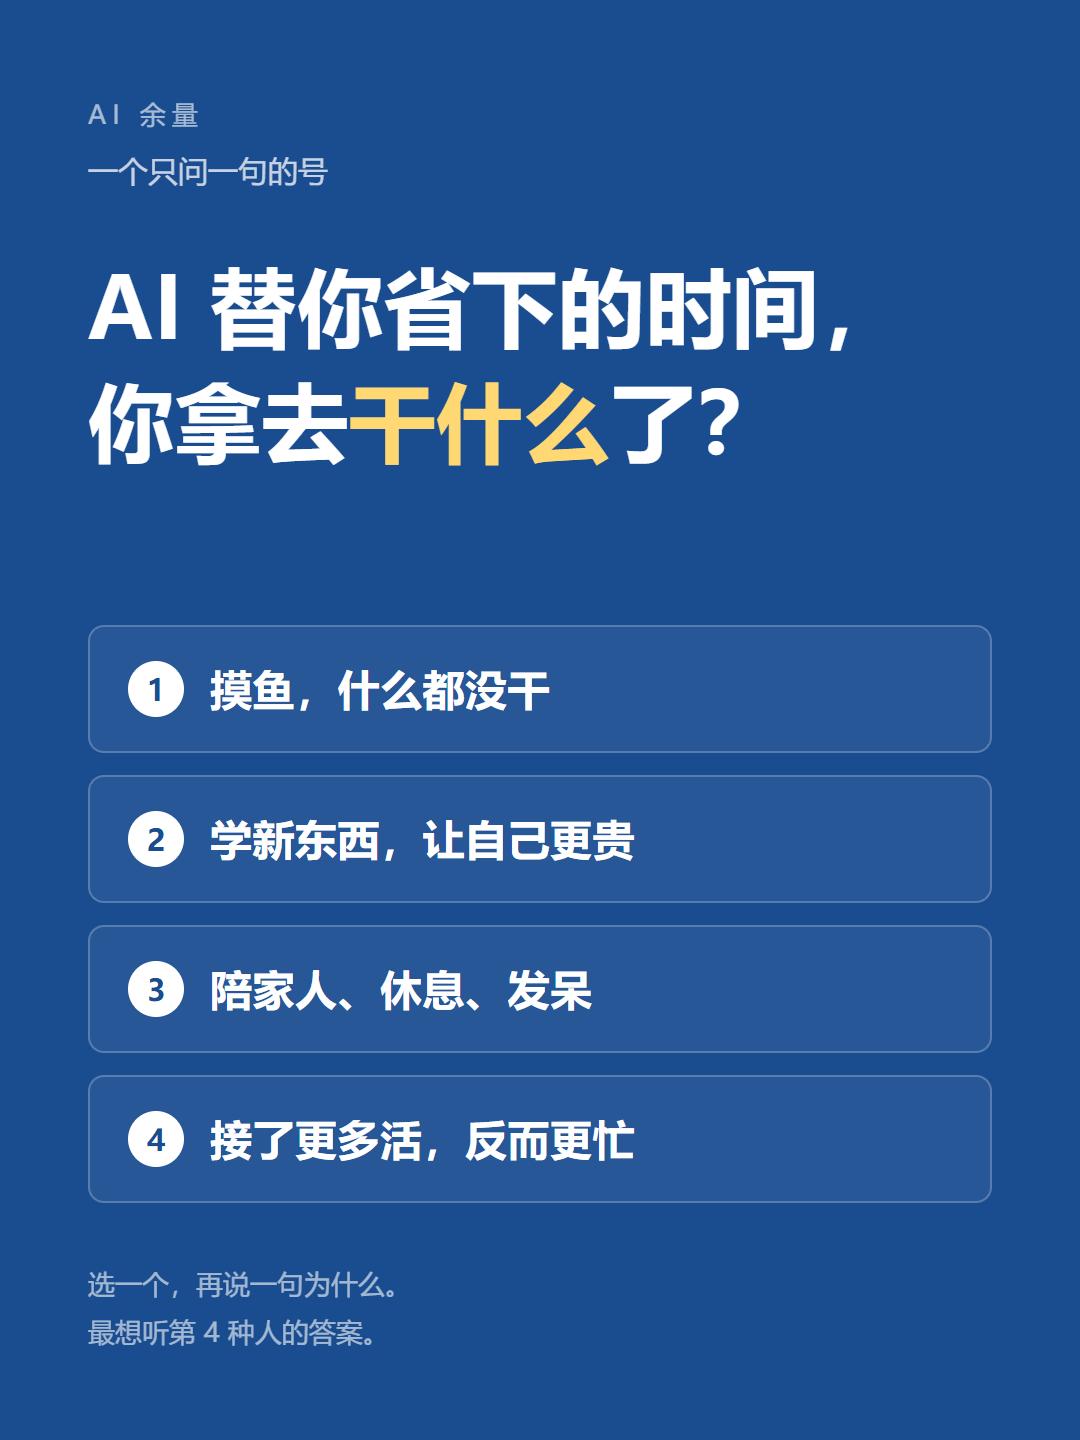
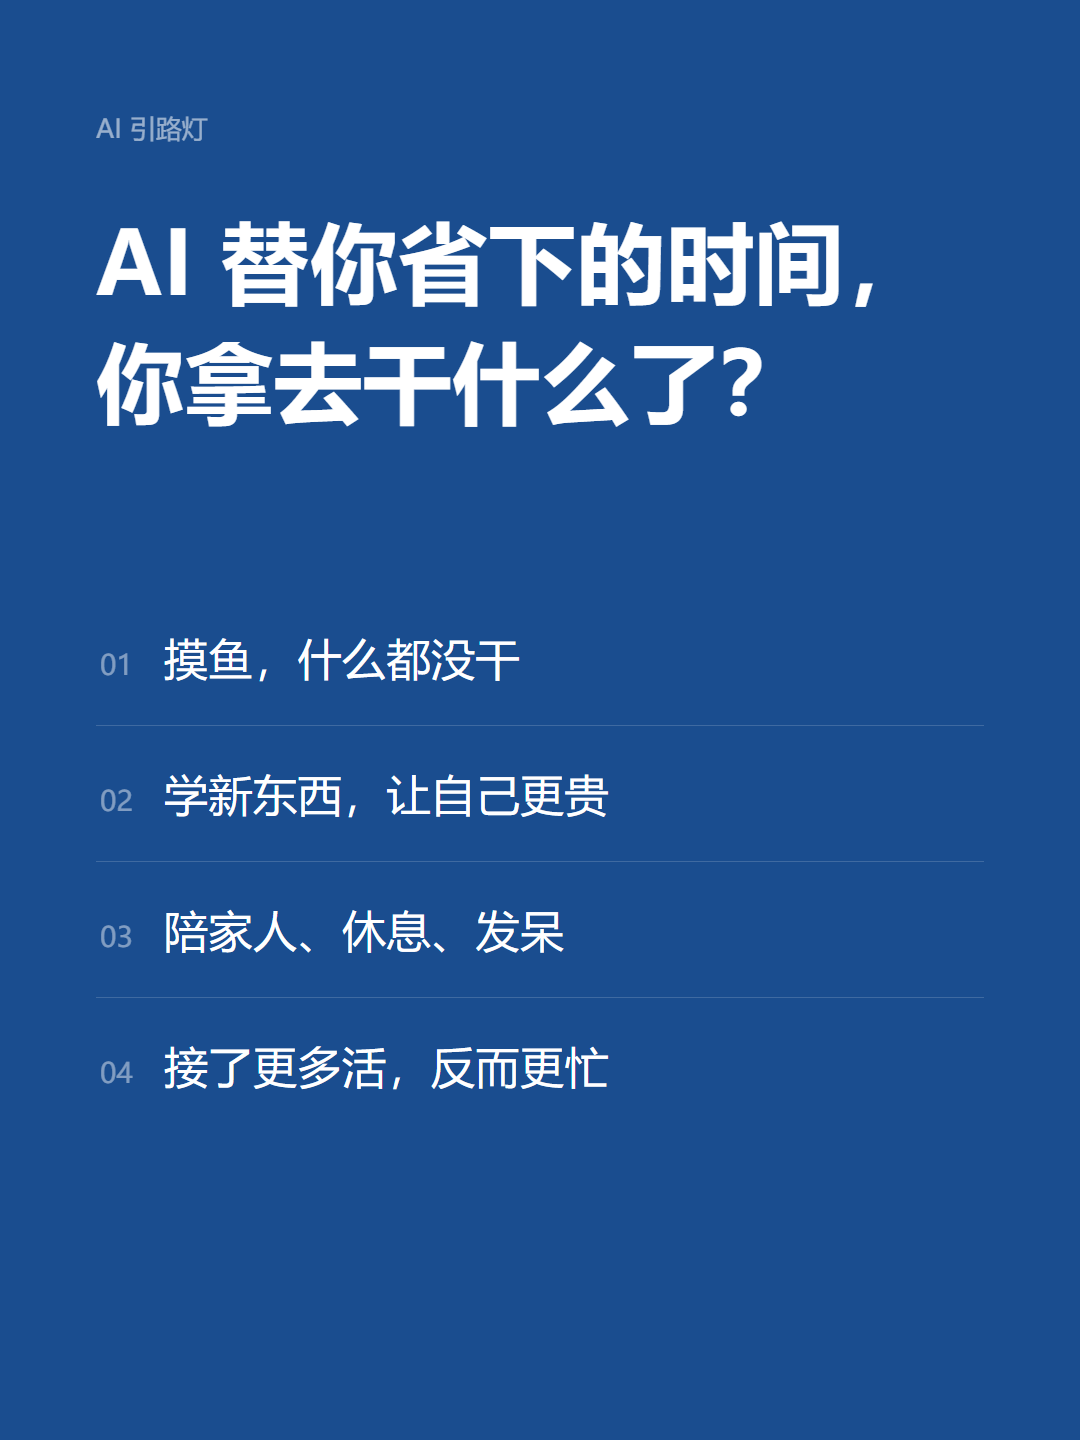
改名 AI 引路灯，卡片去掉装饰
名字：AI 余量 → **AI 引路灯**。一句话：灯不解释整条路，只照亮下一步。
介绍文案全部重写（原来那版整段围绕「余量」展开，名字换了就不成立）。

讨论卡去掉三样：品牌副标题「一个只问一句的号」、黄色高亮、带边框的选项胶囊。
改成：细线分隔 + 小号序号 + 纯文字，只有深蓝一个颜色。
顺手把版面从「选项吸底」改成「跟着问题走」，中间不留大洞。

另外修了文案里一处中英串词（ninety → 九十）。

diff --git a/分发/讨论卡-省下的时间.html b/分发/讨论卡-省下的时间.html
@@ -7,45 +7,33 @@
   body {
     width:1080px; height:1440px; background:#1a4d8f; color:#fff;
     font-family:"PingFang SC","Microsoft YaHei",system-ui,sans-serif;
-    display:flex; flex-direction:column; justify-content:space-between;
-    padding:96px 88px 84px;
+    padding:110px 96px 100px; display:flex; flex-direction:column;
   }
-  .brand { font-size:26px; letter-spacing:6px; opacity:.62; font-weight:400; }
-  .lead { font-size:30px; line-height:1.7; opacity:.75; margin-top:14px; }
+  .brand { font-size:26px; opacity:.55; }
   h1 {
-    font-size:86px; line-height:1.34; font-weight:800; letter-spacing:1px;
-    margin-top:52px;
+    font-size:88px; line-height:1.36; font-weight:700;
+    margin-top:56px; letter-spacing:1px;
   }
-  h1 em { font-style:normal; color:#ffd873; }
-  .opts { margin-top:auto; display:flex; flex-direction:column; gap:22px; }
+  .opts { margin-top:150px; }
   .opt {
-    display:flex; align-items:center; gap:26px;
-    border:2px solid rgba(255,255,255,.22); border-radius:16px;
-    padding:34px 38px; background:rgba(255,255,255,.06);
+    display:flex; align-items:baseline; gap:30px;
+    padding:38px 4px; border-bottom:1px solid rgba(255,255,255,.16);
   }
-  .idx {
-    width:56px; height:56px; flex:0 0 56px; border-radius:50%;
-    background:#fff; color:#1a4d8f; font-size:30px; font-weight:700;
-    display:flex; align-items:center; justify-content:center;
-  }
-  .txt { font-size:42px; font-weight:600; letter-spacing:.5px; }
-  .foot { margin-top:56px; font-size:27px; line-height:1.8; opacity:.6; }
+  .opt:last-child { border-bottom:none; }
+  .idx { font-size:28px; opacity:.45; width:34px; flex:0 0 34px; }
+  .txt { font-size:44px; font-weight:500; letter-spacing:.5px; }
 </style>
 </head>
 <body>
-  <div>
-    <div class="brand">AI 余量</div>
-    <div class="lead">一个只问一句的号</div>
-    <h1>AI 替你省下的时间，<br>你拿去<em>干什么</em>了？</h1>
-  </div>
+  <div class="brand">AI 引路灯</div>
+
+  <h1>AI 替你省下的时间，<br>你拿去干什么了？</h1>
 
   <div class="opts">
-    <div class="opt"><div class="idx">1</div><div class="txt">摸鱼，什么都没干</div></div>
-    <div class="opt"><div class="idx">2</div><div class="txt">学新东西，让自己更贵</div></div>
-    <div class="opt"><div class="idx">3</div><div class="txt">陪家人、休息、发呆</div></div>
-    <div class="opt"><div class="idx">4</div><div class="txt">接了更多活，反而更忙</div></div>
+    <div class="opt"><div class="idx">01</div><div class="txt">摸鱼，什么都没干</div></div>
+    <div class="opt"><div class="idx">02</div><div class="txt">学新东西，让自己更贵</div></div>
+    <div class="opt"><div class="idx">03</div><div class="txt">陪家人、休息、发呆</div></div>
+    <div class="opt"><div class="idx">04</div><div class="txt">接了更多活，反而更忙</div></div>
   </div>
-
-  <div class="foot">选一个，再说一句为什么。<br>最想听第 4 种人的答案。</div>
 </body>
 </html>

diff --git a/品牌/介绍.md b/品牌/介绍.md
@@ -1,74 +1,55 @@
-# AI 余量 · 品牌物料
+# AI 引路灯 · 品牌物料
 
-> 2026-11-04 定名。原名「到了早上.」仅作署名保留，不再用于定位描述。
+> 2026-11-04 定名。
 
-## 一、名字与一句话
+## 一、名字
 
-**AI 余量**
+**AI 引路灯**
 
-一句话：**AI 替你省下的时间和心力，叫余量。**
-
-「余量」这个词有两层意思，正好是这个号的两件事：
-
-- 工具层面的余量：同一件事，用 AI 少花的时间
-- 人这一侧的余量：省下来的那部分，你拿去干什么
+一句话：**灯不解释整条路，只照亮下一步。**
 
 ## 二、功能介绍（公众号「功能介绍」栏，限 120 字内）
 
-**推荐版（96 字）**
-
-> 每天一个普通人用得上的 AI 用法。不追发布会，不讲原理，只写我亲手试过的——给步骤，说局限，允许失败。省下来的时间，才是你的余量。
-
-**短版（42 字，适合放不下时）**
+**推荐版（58 字）**
 
 > 每天一个普通人用得上的 AI 用法。给步骤，说局限，不吹。
 
-**长版（118 字，审核允许的最大值附近）**
+**长版（96 字）**
 
-> 一个人运营。每天一个普通人用得上的 AI 用法：具体到点哪里、填什么、等多久。我试过才写，没试过的不写；每篇都会说它哪里不行。不追热点，不卖焦虑。AI 省下的时间用来干什么，比 AI 本身更值得聊。
+> 每天一个普通人用得上的 AI 用法：具体到点哪里、填什么、等多久。我试过才写，没试过的不写；每篇都会说它哪里不行。不追热点，不卖焦虑。
 
-## 三、首篇 / 「关于」段落
+## 三、首篇「关于」段落
 
-> 这个号只写一件事：**普通人怎么用 AI 把活干完。**
+> 这个号只写一件事：普通人怎么用 AI 把活干完。
 >
-> 不开课，不卖课，不写「AI 将改变一切」。写的是具体的事——周报怎么让 AI 起草、会议录音怎么变成待办、表格里的公式怎么让它写。
+> 不开课，不卖课，不写「AI 将改变一切」。写具体的事——周报怎么让 AI 起草、会议录音怎么变成待办、表格里的公式怎么让它写。
 >
 > 三条规矩：只写我真的用过的；每一步都写清点哪里；每篇都说一条它做不到的地方。
 >
-> 我的判断是：AI 的价值不在它能干多少，在于它给你省下的那部分——那部分叫余量。余量用来干什么，是你自己的事。
->
-> 更新：每周三篇用法 + 一篇踩坑，周日一份清单。
+> 叫引路灯，是因为灯不解释整条路，只照亮下一步。
 
-## 四、文末固定签名（每篇结尾用）
+## 四、文末固定签名
 
 ```
-AI 余量 · 每天一个用得上的用法
+AI 引路灯 · 每天一个用得上的用法
 ```
 
-或带关注引导的版本：
-
-```
-这个号每周写三个普通人能上手的 AI 用法，都带步骤，都说局限。
-不想错过的，可以关注。
-```
-
-## 五、栏目名（沿用内容策略，与「余量」呼应）
+## 五、栏目
 
 | 栏目 | 频率 | 一句话 |
 |---|---|---|
-| **今天试了一个** | 周 3 | 一个具体用法，带步骤 |
-| **踩坑记录** | 周 1 | 我搞砸的事，以及为什么 |
-| **一周清单** | 周日 | 这周值得试的三个 |
+| 今天试了一个 | 周 3 | 一个具体用法，带步骤 |
+| 踩坑记录 | 周 1 | 我搞砸的事，以及为什么 |
+| 一周清单 | 周日 | 这周值得试的三个 |
 
 ## 六、头像
 
-- 规格：1:1，建议 1024×1024，主要元素留在中心 70% 圆内（微信裁成圆形）
+- 1:1，1024×1024，主元素留在中心 70% 圆内
 - 缩到 40px 仍要认得出 → **不放字**，只放一个符号
-- 配色：深蓝 `#1a4d8f` 底 + 纯白符号，与正文强调色一致
-- 意象：**一条刻度尺，右端留白**（量到哪儿为止，剩下的就是余量）
+- 深蓝 `#1a4d8f` 底 + 纯白符号，与正文强调色一致
+- 意象：**一盏灯的光锥**，或者一条被照亮的一小段路
 
-## 七、名字的风险与补救
+## 七、已知风险
 
-- **搜一搜**：「余量」是通用词，单独搜不一定靠前 → 每篇文章标题和文末都带「AI 余量」四个字，靠内容把关联做起来
-- **改名成本**：个人订阅号一年只能改 2 次，这次定下就别再动
-- **简介补齐**：名字抽象，所以「功能介绍」必须把「普通人 / 每天 / 给步骤」三个信息说全——上面三版都是按这个写的
+- 「引路灯」不是常用词，搜一搜靠内容慢慢养 → 每篇标题与文末都带「AI 引路灯」
+- 个人订阅号一年只能改 2 次名，这次定下别动

diff --git a/分发/讨论贴-省下的时间.md b/分发/讨论贴-省下的时间.md
@@ -85,13 +85,13 @@ AI 帮我省下的时间，我全用来摸鱼了
 先说结论：AI 确实省时间，但省下来的时间不会自动变成你的。
 
 我用 AI 三个月，每天大约省一个半小时。
-这 ninety 分钟没有变成学习，也没有变成休息，
+这九十分钟没有变成学习，也没有变成休息，
 它被"既然你快了，那就再多做一点"吃掉了。
 
 这不是 AI 的问题，是效率提升后的默认分配机制。
 ```
 
-（发之前把 `ninety` 改成「九十」，我写的时候串了。）
+
 
 ---
 
